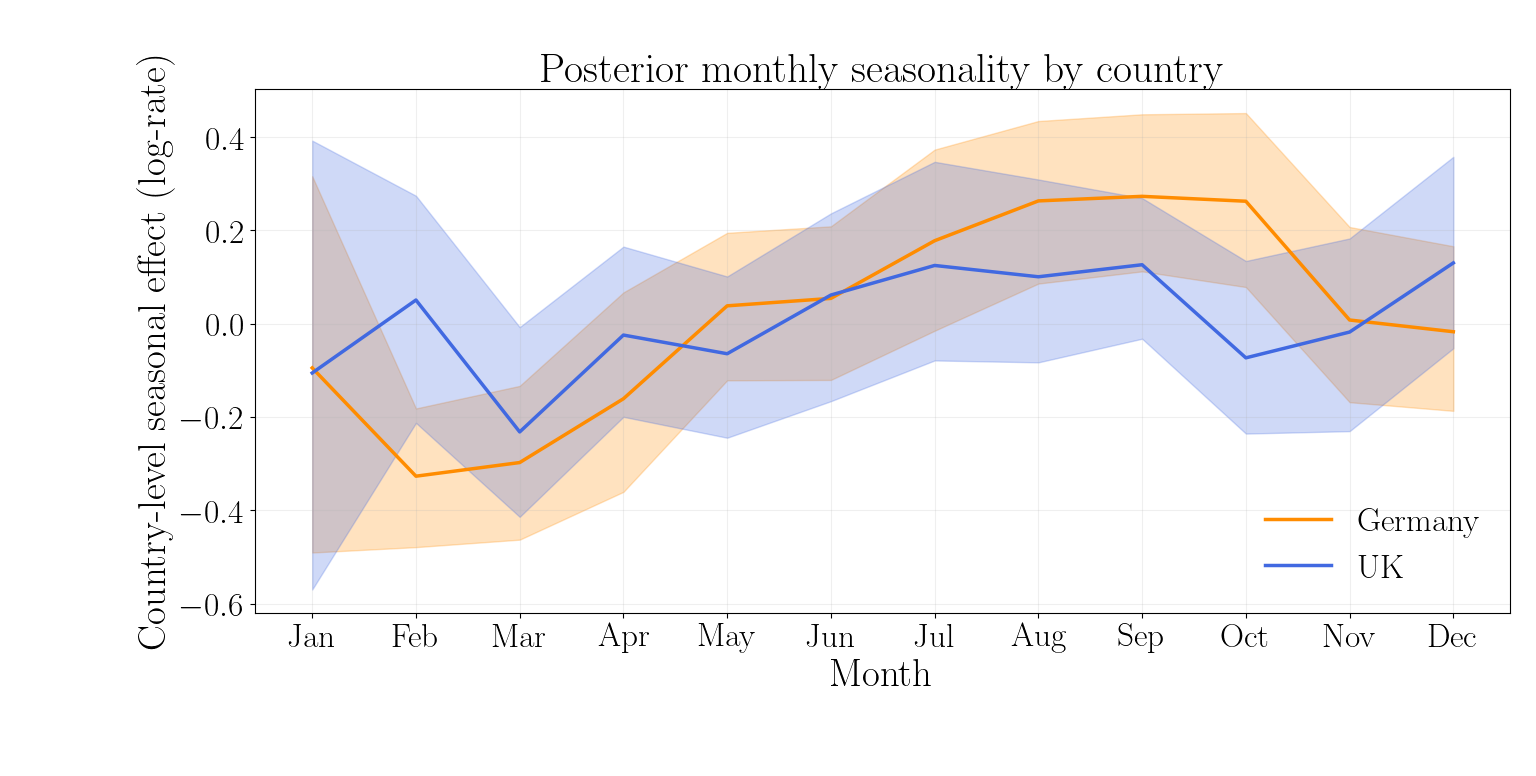
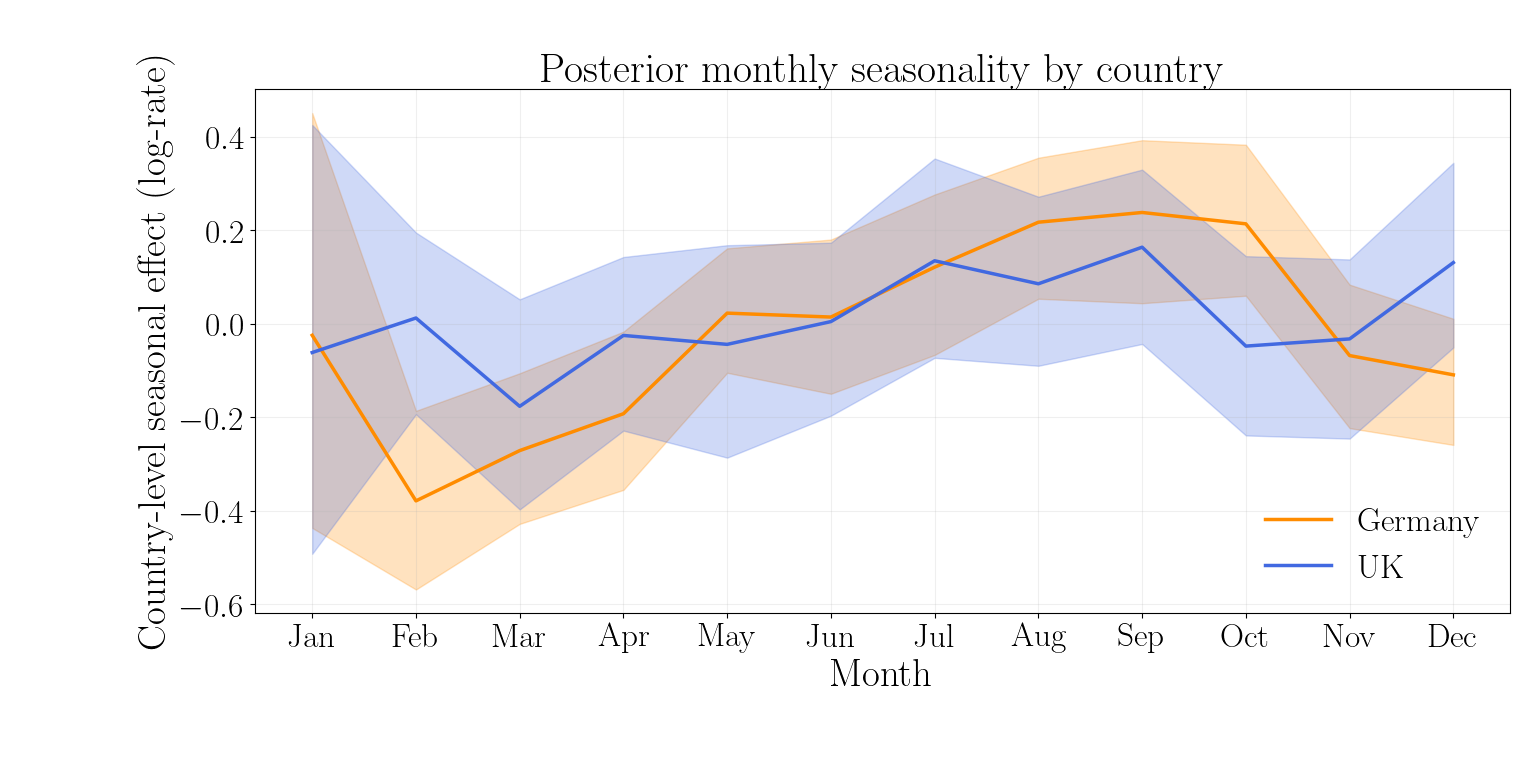
poisson model fixes and refactoring

diff --git a/src/population_normalization.py b/src/population_normalization.py
@@ -1,85 +1,94 @@
 import geopandas as gpd
-from pathlib import Path
-import os
 import pandas as pd
-import plotly.express as px
+from pathlib import Path
+import matplotlib.pyplot as plt
 
 
-def load_accidents(
-        path: str,
-        category_filters: dict | None = None
-):
-    df = pd.read_csv(path, sep=",", dtype=str)
+class AccidentNormalizer:
+    """
+    Handles spatial joining of accident points to regions and
+    calculates population-based normalization metrics.
+    """
 
-    df["longitude"] = (
-        df["longitude"]
-        .str.replace(",", ".", regex=False)
-        .astype(float)
-    )
+    def __init__(self, regions_gdf: gpd.GeoDataFrame):
+        self.regions = regions_gdf
+        if self.regions.crs is None:
+            raise ValueError("Regions GeoDataFrame must have a defined CRS.")
 
-    df["latitude"] = (
-        df["latitude"]
-        .str.replace(",", ".", regex=False)
-        .astype(float)
-    )
+    def load_accident_data(self, path: Path, filters: dict = None) -> gpd.GeoDataFrame:
+        """Loads raw CSV, cleans coordinates, and converts to GeoDataFrame."""
+        df = pd.read_csv(path, sep=",", dtype=str)
 
-    # Apply user-specified filters
-    if category_filters:
-        for col, allowed in category_filters.items():
-            df = df[df[col].isin(allowed)]
+        # Clean and convert coordinates
+        for col in ["longitude", "latitude"]:
+            df[col] = df[col].str.replace(",", ".", regex=False).astype(float)
 
-    return df
+        # Apply filtering (e.g., fatality severity only)
+        if filters:
+            for col, allowed_values in filters.items():
+                df = df[df[col].isin(allowed_values)]
+
+        gdf = gpd.GeoDataFrame(
+            df,
+            geometry=gpd.points_from_xy(df.longitude, df.latitude),
+            crs="EPSG:4326"
+        )
+        return gdf.to_crs(self.regions.crs)
+
+    def attach_regions_and_count(self, accidents_gdf: gpd.GeoDataFrame) -> gpd.GeoDataFrame:
+        """Performs spatial join and aggregates accident counts per region."""
+        # Spatial join
+        joined = gpd.sjoin(accidents_gdf, self.regions, how="left", predicate="within")
+
+        # Aggregate counts
+        counts = joined.groupby("region_code").size().rename("accident_count").reset_index()
+
+        # Merge back to master regions GeoDataFrame
+        self.regions = self.regions.merge(counts, on="region_code", how="left")
+        self.regions["accident_count"] = self.regions["accident_count"].fillna(0)
+
+        return self.regions
+
+    def normalize_by_population(self, scale: int = 100_000):
+        """Calculates the normalized rate (default: per 100k inhabitants)."""
+        self.regions[f"accidents_per_{scale // 1000}k"] = (
+                self.regions["accident_count"] / self.regions["population"] * scale
+        )
+        return self.regions
+
+    def plot_results(self, column: str = "accidents_per_100k", title: str = "Accident Distribution"):
+        """Quick diagnostic plot to verify spatial join and normalization."""
+        fig, ax = plt.subplots(1, 1, figsize=(10, 12))
+        self.regions.plot(
+            column=column,
+            cmap="OrRd",
+            legend=True,
+            ax=ax,
+            legend_kwds={'label': f"Rate ({column})", 'orientation': "horizontal"}
+        )
+        ax.set_title(title)
+        ax.axis("off")
+        plt.show()
 
 
-# Base directory (project root, one level up from src)
-BASE_DIR = Path(__file__).resolve().parent.parent
-regions = gpd.read_file(BASE_DIR / "data" / "processed" / "geo_data" / "Germany_merged.geojson")
+# --- Example Usage for Reproducibility ---
+if __name__ == "__main__":
+    BASE_DIR = Path(__file__).resolve().parent.parent
 
-regions.crs
+    # 1. Load your 500k-merged regions
+    region_path = BASE_DIR / "data" / "processed" / "geo_data" / "Germany_merged.geojson"
+    regions_gdf = gpd.read_file(region_path)
 
-germany_acc_path = BASE_DIR / "data" / "processed" / "reduced_uk_dataset" / "modified_ger.csv"
-ger_acc_df = load_accidents(
-    str(germany_acc_path),
-    category_filters={
-        "casualty_severity": ["1"],
-    }
-)
+    # 2. Initialize Normalizer
+    normalizer = AccidentNormalizer(regions_gdf)
 
-# Convert dataframe into a GeoDataFrame
-accidents_gdf = gpd.GeoDataFrame(
-    ger_acc_df,
-    geometry=gpd.points_from_xy(
-        ger_acc_df.longitude,
-        ger_acc_df.latitude
-    ),
-    crs="EPSG:4326"
-)
+    # 3. Process Accidents
+    acc_path = BASE_DIR / "data" / "processed" / "reduced_uk_dataset" / "modified_ger.csv"
+    acc_gdf = normalizer.load_accident_data(acc_path, filters={"casualty_severity": ["1"]})
 
-accidents_gdf = accidents_gdf.to_crs(regions.crs)
+    # 4. Generate Final Dataset
+    final_regions = normalizer.attach_regions_and_count(acc_gdf)
+    final_regions = normalizer.normalize_by_population(scale=100_000)
 
-accidents_with_region = gpd.sjoin(
-    accidents_gdf,
-    regions,
-    how="left",
-    predicate="within"  # or "intersects"
-)
-
-accident_counts = (
-    accidents_with_region
-    .groupby("region_code")
-    .size()
-    .rename("accident_count")
-    .reset_index()
-)
-
-regions = regions.merge(
-    accident_counts,
-    on="region_code",
-    how="left"
-)
-
-regions["accident_count"] = regions["accident_count"].fillna(0)
-regions["accidents_per_100k"] = (
-        regions["accident_count"] / regions["population"] * 100_000
-)
-
+    # 5. Diagnostic Plot: Check if the map looks correct (no empty regions where expected)
+    normalizer.plot_results(title="Fatal Accidents per 100k Inhabitants (Germany)")

diff --git a/src/hierarchical_poisson_model.py b/src/hierarchical_poisson_model.py
@@ -20,6 +20,7 @@ import matplotlib.colors as mcolors
 import contextily as ctx
 from mpl_toolkits.axes_grid1 import make_axes_locatable
 from matplotlib import rcParams
+import calendar
 
 
 # Load accidents data
@@ -163,7 +164,11 @@ def build_traffic_volume_bayes_dataset_seasonal(germany_gdf, uk_gdf):
         )
 
         # Monthly exposure (assumed uniform)
-        df["exposure"] = df["exposure_annual"] / 12.0
+        # days in month (non-leap year)
+        df["days_in_month"] = df["month"].apply(lambda m: calendar.monthrange(2023, m)[1])
+        # vehicle-km per month
+        df["exposure"] = df["exposure_annual"] * df["days_in_month"]
+        #df["exposure"] = df["accidents_per_vehicle_km"] / 12.0
 
         return pd.DataFrame({
             "region_id": df["region_code"].astype(str),
@@ -203,7 +208,7 @@ def hierarchical_poisson_model_region_season(
     # ----------------------------
     mu_country = numpyro.sample(
         "mu_country",
-        dist.Normal(-10.0, 5.0).expand([n_countries])
+        dist.Normal(1.0, 2.0).expand([n_countries])
     )
 
     # ----------------------------
@@ -285,7 +290,7 @@ def run_numpyro_model_aadf_seasonal(
     accidents = df["accident_count"].to_numpy()
 
     # Exposure in a billion vehicle-km (monthly exposure)
-    exposure = (df["exposure"] / 1e6).to_numpy()
+    exposure = (df["exposure"] / 1e9).to_numpy()
 
     # Country index
     country_idx = df["country"].map(
@@ -412,7 +417,7 @@ def compute_seasonal_region_rates_from_posterior(
     seasonal_rates = {}
 
     # 🔑 correct per-region country parameters
-    mu_region = np.take(mu, country_idx_per_region, axis=1)  # (S, R)
+    mu_region = np.take(mu, country_idx_per_region, axis=1, mode='clip')  # (S, R)
     sigma_region = np.take(sigma, country_idx_per_region, axis=1)  # (S, R)
     print(f'sigma_region shape: {sigma_region.shape}')
 
